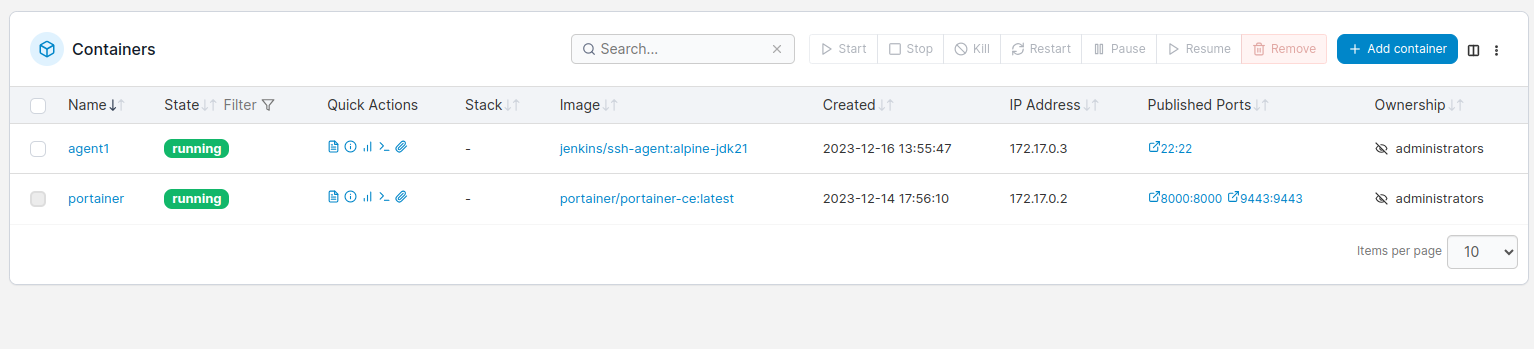
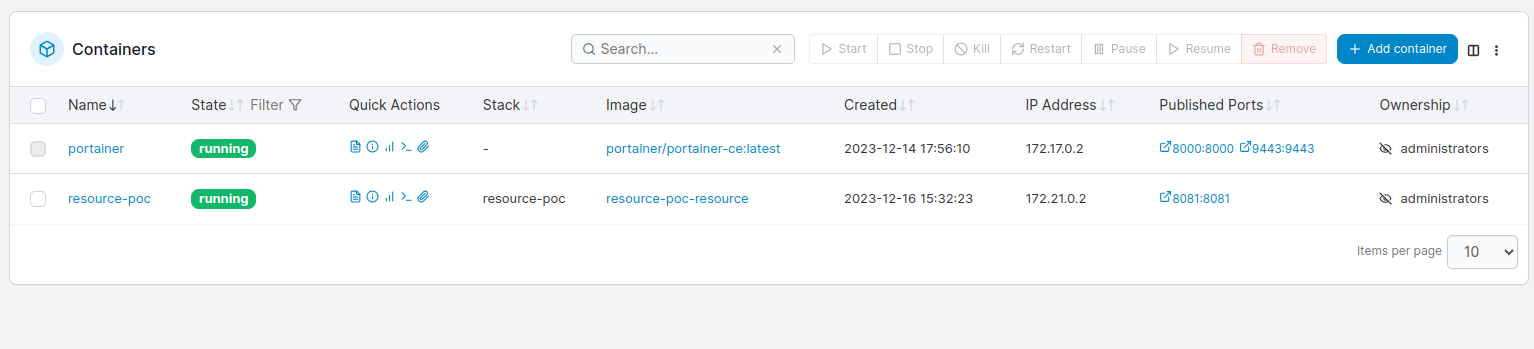
Portainer screenshot with resource-poc container running

diff --git a/README.md b/README.md
@@ -16,3 +16,9 @@ A POC Project that intends to run a spring project inside a java 17 docker conta
 From [Jenkins Official](https://www.jenkins.io/doc/book/using/using-agents/):
 
 `"The Jenkins controller is the original node in the Jenkins installation. The Jenkins controller administers the Jenkins agents and orchestrates their work, including scheduling jobs on agents and monitoring agents. Agents may be connected to the Jenkins controller using either local or cloud computers."`
+
+### Portainer
+
+Resource-poc docker container running after jenkins pipeline execution.
+
+![alt text](src/main/resources/images/portainer.png)
